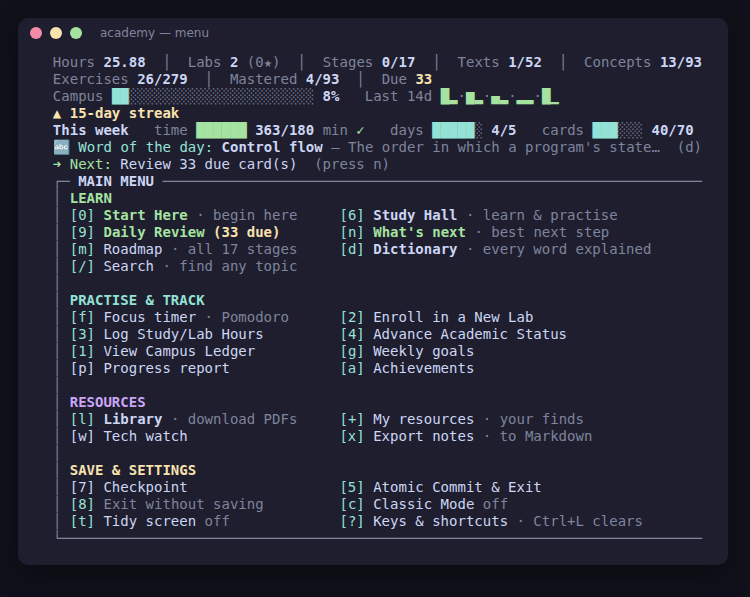
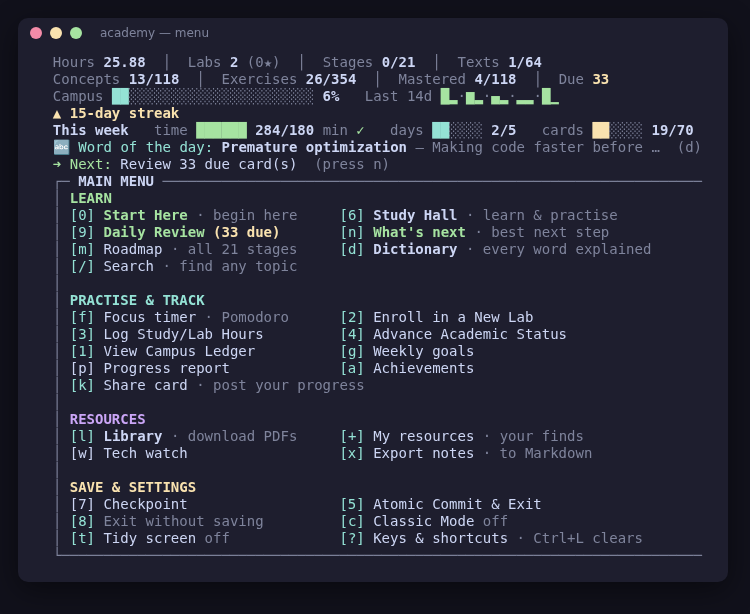
README: demo GIF, one-command install and feature table up front
- docs/demo.gif: a 30-second tour made from real screens of the app
  (tools/demo_gif.py), shown at the top of both READMEs.
- The root README now leads with a one-line pitch, badges, the install
  commands, what's inside, the share card and how to contribute.
- docs/share-card.png, and a refreshed menu screenshot with Share card.

Claude-Session: https://claude.ai/code/session_01PeHC9mGDMKHVeqdMKqCduv

diff --git a/academy/tools/demo_gif.py b/academy/tools/demo_gif.py
@@ -1,0 +1,86 @@
+#!/usr/bin/env python3
+"""Make docs/demo.gif, the animated tour at the top of the README.
+
+Every frame is the real app: it runs in a pseudo-terminal on the demo
+registry, exactly as tools/screenshots.py does, and each screen is
+rendered by headless Chromium at the same size, then joined into a GIF.
+
+Usage (Linux, with Chromium and Pillow):
+  go build -o academy . && python3 tools/demo_gif.py
+"""
+import os, re, shutil, subprocess, sys, tempfile
+
+sys.path.insert(0, os.path.dirname(os.path.abspath(__file__)))
+import screenshots as shots  # noqa: E402
+
+from PIL import Image  # noqa: E402
+
+COLS, ROWS = 80, 30
+
+# (caption, keys, first line regex, last line regex, seconds on screen)
+SCENES = [
+    ("21 stages, from how a CPU works to building AI", [], r"Hours ", r"└─", 3.0),
+    ("the Study Hall: pick a stage", ["6"], r"STUDY HALL", r"\[16\]", 2.5),
+    ("every concept: analogy, example, diagram", ["6", "1", "1", "5"], r"┏━", None, 3.5),
+    ("under the hood: the real bytes and commands", ["6", "1", "1", "6"], r"🔧 Under the hood", None, 3.0),
+    ("real exercises, three per concept", ["6", "0", "2", "3", "3"], r"REAL-WORLD", r"\(y/n\)|›", 3.0),
+    ("spaced repetition, so you keep what you learn", ["9"], r"DAILY REVIEW", r"Your answer", 3.0),
+    ("a dictionary of every programming word", ["d", "type casting"], r"┏━ Type casting", r"┗", 3.0),
+    ("free books and papers, downloaded in the app", ["l"], r"LIBRARY", None, 3.0),
+    ("your progress, ready to share", ["k"], r"╭", r"learning_space", 4.0),
+]
+
+
+def frame(chrome, demo, n, caption, keys, first, last, out_dir):
+    tmp = tempfile.mkdtemp(prefix="academy-gif-")
+    reg = os.path.join(tmp, "reg.json")
+    shutil.copy(demo, reg)
+    lines = shots.terminal_lines(shots.run_session(COLS, keys, reg))
+    start = next((i for i, l in enumerate(lines) if re.search(first, shots.plain(l))), None)
+    if start is None:
+        raise SystemExit(f"scene {n}: start marker {first!r} not found")
+    if start > 0 and set(shots.plain(lines[start - 1]).strip()) == {"═"}:
+        start -= 1
+    end = min(len(lines), start + ROWS)
+    if last:
+        for i in range(start + 1, len(lines)):
+            if re.search(last, shots.plain(lines[i])):
+                end = min(i + 1, start + ROWS)
+                break
+    chosen = [l for l in lines[start:end]
+              if not re.search(r"press Enter to continue|Enter for more", shots.plain(l))]
+    chosen += [""] * (ROWS - len(chosen))  # every frame the same size
+    body = "\n".join(shots.to_html(l) for l in chosen)
+    page = os.path.join(tmp, "frame.html")
+    with open(page, "w") as f:
+        f.write(shots.PAGE.format(cols=COLS, title=caption, body=body))
+    width = int(COLS * 8.43) + 36 + 36 + 4
+    height = ROWS * 17 + 30 + 24 + 36 + 14
+    png = os.path.join(out_dir, f"{n:02d}.png")
+    subprocess.run([chrome, "--no-sandbox", "--hide-scrollbars", "--force-device-scale-factor=1",
+                    "--disable-lcd-text", f"--window-size={width},{height}", f"--screenshot={png}",
+                    "file://" + page], check=True, capture_output=True)
+    return png
+
+
+def main():
+    chrome = shots.find_chrome()
+    demo = os.path.join(tempfile.mkdtemp(prefix="academy-demo-"), "demo.json")
+    subprocess.run(["go", "test", "-count=1", "-run", "TestWriteDemoRegistry", "."], cwd=shots.ROOT,
+                   check=True, env={**os.environ, "ACADEMY_DEMO_OUT": demo}, capture_output=True)
+    out_dir = tempfile.mkdtemp(prefix="academy-frames-")
+    images, durations = [], []
+    for n, (caption, keys, first, last, secs) in enumerate(SCENES):
+        png = frame(chrome, demo, n, caption, keys, first, last, out_dir)
+        # One shared-looking palette per frame keeps the colours crisp.
+        images.append(Image.open(png).convert("RGB").quantize(colors=64, method=Image.Quantize.MEDIANCUT))
+        durations.append(int(secs * 1000))
+        print(f"  frame {n}: {caption}")
+    target = os.path.join(shots.DOCS, "demo.gif")
+    images[0].save(target, save_all=True, append_images=images[1:], duration=durations, loop=0,
+                   optimize=True, disposal=1)
+    print(f"  {target}: {os.path.getsize(target) // 1024} KB, {sum(durations) / 1000:.0f} s")
+
+
+if __name__ == "__main__":
+    main()

diff --git a/academy/tools/screenshots.py b/academy/tools/screenshots.py
@@ -51,6 +51,7 @@ SHOTS = {
     "progress": (80, ["p"], r"PROGRESS REPORT", r"Achievements", 45),
     "library": (80, ["l"], r"LIBRARY", r"Stage 2 ·", 30),
     "techwatch": (80, ["w", "4"], r"MY TECH RADAR", r"press Enter", 30),
+    "share-card": (80, ["k"], r"╭", r"learning_space", 25),
     "start-here": (80, ["0"], r"WHY WE START WITH C", r"GET A C COMPILER", 20),
     "struggle-clock": (80, ["c", "y", "6", "1", "2", "5", "2", "y"], r"PRACTICE", r"learning happens", 30, -2),
 }

diff --git a/README.md b/README.md
@@ -1,17 +1,70 @@
 <p align="center"><img src="academy/assets/icon.svg" width="112" alt="Systems & AI Academy icon"></p>
 
-# learning_space
+<h1 align="center">Systems & AI Academy</h1>
 
-## Systems & AI Academy
+<p align="center"><b>A free computer science degree that runs in your terminal.</b><br>
+21 stages, from how a CPU works and C to operating systems, security and building AI,<br>
+with real exercises, quizzes and spaced repetition so you keep what you learn.</p>
 
-A terminal study companion for self-learners. It covers the core of a computer science degree plus modern AI and defensive security in 21 stages, starting from how computers work and C. It includes spaced repetition, real exercises, a programmer's dictionary, a PDF library and tech watch, all in one dependency-free executable.
+<p align="center">
+  <a href="https://github.com/pronexuscodex/learning_space/releases/latest"><img alt="Latest release" src="https://img.shields.io/github/v/release/pronexuscodex/learning_space?label=release"></a>
+  <a href="https://github.com/pronexuscodex/learning_space/actions/workflows/ci.yml"><img alt="CI" src="https://github.com/pronexuscodex/learning_space/actions/workflows/ci.yml/badge.svg"></a>
+  <a href="LICENSE"><img alt="MIT license" src="https://img.shields.io/badge/license-MIT-blue"></a>
+  <img alt="Windows, macOS, Linux" src="https://img.shields.io/badge/runs%20on-Windows%20%7C%20macOS%20%7C%20Linux-informational">
+  <a href="https://github.com/pronexuscodex/learning_space/stargazers"><img alt="GitHub stars" src="https://img.shields.io/github/stars/pronexuscodex/learning_space?style=social"></a>
+</p>
 
-- **Install it (recommended):** one command, no administrator rights. It adds the app to your Start Menu or app menu and puts `academy` on your PATH ([details](academy/README.md#install)).
-  - Windows (PowerShell): `irm https://raw.githubusercontent.com/pronexuscodex/learning_space/main/install.ps1 | iex`
-  - macOS and Linux: `curl -fsSL https://raw.githubusercontent.com/pronexuscodex/learning_space/main/install.sh | sh`
-- **Download:** [Releases](https://github.com/pronexuscodex/learning_space/releases), for Linux, macOS, Windows and FreeBSD.
-- **Or use a package manager:** `brew install pronexuscodex/academy/academy` after `brew tap pronexuscodex/academy https://github.com/pronexuscodex/learning_space`, or `scoop install academy/academy` after `scoop bucket add academy https://github.com/pronexuscodex/learning_space` ([details](academy/README.md#install)).
-- **Read more:** [academy/README.md](academy/README.md).
-- **What's new:** [academy/CHANGELOG.md](academy/CHANGELOG.md).
+<p align="center"><img src="academy/docs/demo.gif" width="750" alt="A 30-second tour: the menu, the Study Hall, a concept card with a diagram, an exercise, daily review, the dictionary, the PDF library and the share card"></p>
+
+## Install in one command
+
+No account, no administrator rights, nothing to configure. It adds the app, with its icon, to your Start Menu, Launchpad or applications menu.
+
+**Windows** (PowerShell)
+
+```powershell
+irm https://raw.githubusercontent.com/pronexuscodex/learning_space/main/install.ps1 | iex
+```
+
+**macOS and Linux** (Terminal)
+
+```sh
+curl -fsSL https://raw.githubusercontent.com/pronexuscodex/learning_space/main/install.sh | sh
+```
+
+Then open **Systems & AI Academy**, or type `academy`. You can also use [Homebrew, Scoop or a direct download](academy/README.md#install).
+
+## What's inside
+
+| | |
+|---|---|
+| 🧭 **A real curriculum** | 21 stages in five tracks (Foundations, Systems, Software & Theory, AI & Hardware, Defensive Security), in the order a CS degree teaches them. |
+| 💡 **118 concepts** | Each one comes with an analogy, a real-world example, a diagram, and a look *under the hood* at the real bytes and commands. |
+| 🛠 **354 exercises** | Hands-on, three per concept, plus quizzes, mastery checks, lab blueprints and type-in programs. |
+| 🧠 **Spaced repetition** | Daily review brings back each idea just before you'd forget it. |
+| 📖 **281-word dictionary** | Every programming word explained in plain language, with related words. |
+| 📚 **Library** | 33 free, legal books and papers that download as PDFs into `Documents/Academy Library`, arranged by stage. |
+| 📰 **Tech watch** | Headlines from 19 hand-picked feeds, such as arXiv, LWN and Krebs, and your own radar of trends. |
+| 🔥 **Streaks, goals, achievements** | And a **share card** to post your progress (`k` in the app). |
+
+Everything runs offline and stays on your computer, apart from the optional downloads. It's one small program with no dependencies, written in Go.
+
+## Share your progress
+
+Press **`k`** in the app, or run `academy -card`, then take a screenshot and post it with **#LearnInPublic**.
+
+<p align="center"><img src="academy/docs/share-card.png" width="560" alt="The share card: concepts, exercises, streak and a progress bar per track"></p>
+
+## Contribute
+
+Found a better free resource, a clearer explanation, a typo or a bug? Contributions of every size are welcome. Start with [CONTRIBUTING.md](CONTRIBUTING.md) and look for issues labelled [`good first issue`](https://github.com/pronexuscodex/learning_space/labels/good%20first%20issue).
+
+If the academy helps you, **star the repository**. It helps other self-learners find it.
+
+## Learn more
+
+- [Full guide](academy/README.md): every screen, the curriculum stage by stage, keys, data safety and how it is built.
+- [What's new](academy/CHANGELOG.md)
+- [License: MIT](LICENSE)
 
 ![Main menu](academy/docs/menu.png)

diff --git a/academy/README.md b/academy/README.md
@@ -2,9 +2,11 @@
 
 # Systems & AI Academy: Campus Registry
 
-A terminal-based study companion for **self-learners**. It covers the core of a computer science degree plus modern AI in **21 stages**, starting with how computers work, and it assumes no prior knowledge. Every concept is explained from scratch and comes with **real-world exercises**.
+A terminal-based study companion for **self-learners**. It covers the core of a computer science degree plus modern AI and defensive security in **21 stages**, starting with how computers work, and it assumes no prior knowledge. Every concept is explained from scratch and comes with **real-world exercises**.
 
 It is written in Go, uses only the standard library, and keeps all your progress in one readable JSON file.
+
+![A 30-second tour of the academy](docs/demo.gif)
 
 New here? Build it (below), run it, and press **`0`** for the *Start Here* guide. The path starts at **Stage 0, How Computers Work**, then **Stage 1, C**.
 
@@ -680,6 +682,7 @@ Other tools in `tools/`:
 - `packages.py`: writes the Homebrew formula and the Scoop manifest from a release's `SHA256SUMS`; the release workflow runs it for you.
 - `monkey.py`: sends thousands of random keys and fails on any crash or hang.
 - `screenshots.py`: regenerates `docs/*.png` from the real app, using a demo registry and headless Chromium.
+- `demo_gif.py`: makes `docs/demo.gif`, the README tour, from the same real screens (needs Pillow as well).
 - `icons.py`: regenerates every icon asset from `assets/icon.svg` and `assets/icon-small.svg` (the pin-less version used at 16–32 px), using headless Chromium:
   - PNGs from 16 to 1024 px;
   - `assets/academy.ico`;
